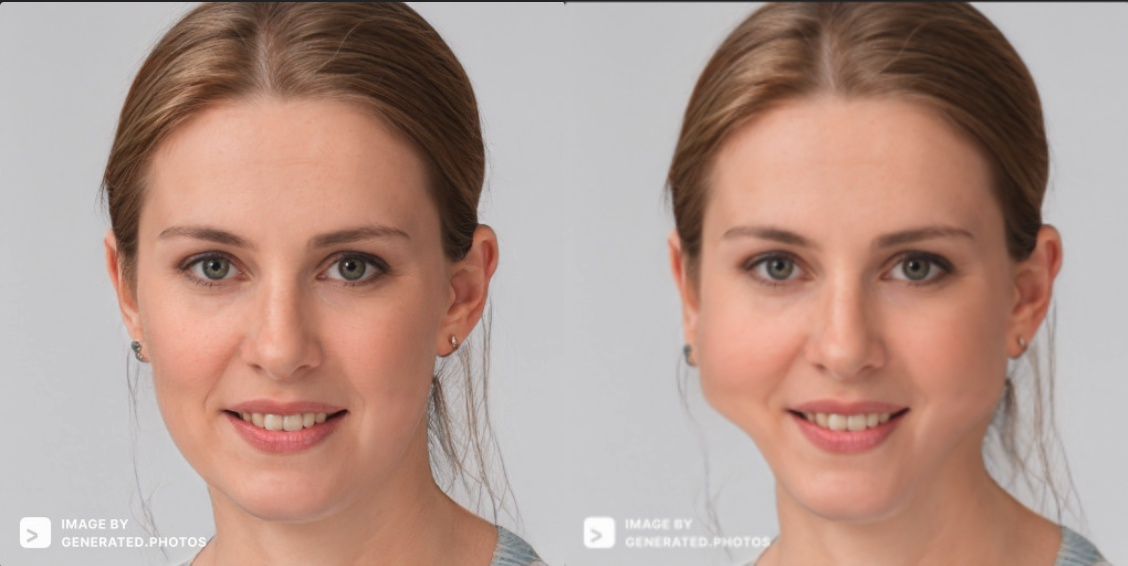
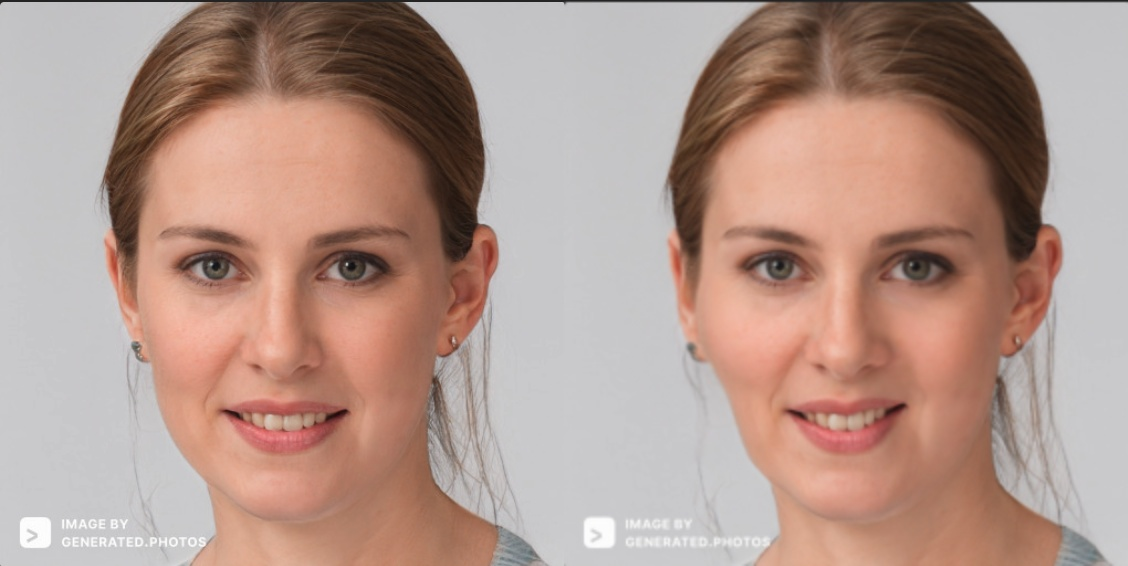
Add all

diff --git a/slim_face.py b/slim_face.py
@@ -1,3 +1,4 @@
+import sys
 import os
 import cv2
 import glob
@@ -86,7 +87,7 @@ class SlimFace(object):
 
     def generate_slim_part_params(self, lms, face_part):
         if face_part == "cheek":
-            landmark_coordinate = self.generate_landmark_coordinate(lms, 3, 5, 13, 11, 29) # Original key Point: 3, 5, 13, 15, 30
+            landmark_coordinate = self.generate_landmark_coordinate(lms, 3, 5, 13, 11, 33) # Original key Point: 3, 5, 13, 15, 30
         elif face_part == "humerus":
             landmark_coordinate = self.generate_landmark_coordinate(lms, 1, 17, 15, 26, 27)
         elif face_part == "chin":
@@ -132,23 +133,20 @@ class SlimFace(object):
             update_status = (
                 False if ux + uy < face_proportion or math.sqrt(ux * ux + uy * uy) < face_proportion else True)
             # update_status = (False if ux + uy < 30 else True)
-            print("update_status")
+            # print("update_status")
             return update_status
 
     def get_landmark(self, im):
         self.frame += 1
         if self.frame == 1:
             rects = self.s3fd_model.extract(im)
-            print("!!!!!", len(im), im.shape, rects)
             lms = self.landmark_model.extract(im, rects[:1])
-            print(lms)
             c_lms = lms
             self.rects = rects
             self.landmarks = lms
             self.lms_update = True
 
         else:
-            print("!!!!")
             rects = self.s3fd_model.extract(im)
             update_status = self.compare_rects_change(rects)
             if not update_status:
@@ -156,12 +154,13 @@ class SlimFace(object):
                 lms = self.landmarks
                 self.lms_update = False
             else:
-                print("get new lanmark")
                 lms = self.landmark_model.extract(im, rects[:1])
                 c_lms = lms
                 self.rects = rects
                 self.landmarks = lms
                 self.lms_update = True
+
+        print("landmark", lms)
 
         return rects, c_lms, lms, self.lms_update
 
@@ -188,7 +187,11 @@ class SlimFace(object):
             ratio = (dradius - distance) / (dradius - distance + ddmc)
             ratio = s * ratio * ratio
             UX, UY = i - ratio * (endX - landmark_x), j - ratio * (endY - landmark_y)
-            copy_im[j, i] = self.BilinearInsert(im, UX, UY)
+
+            if j <= 255 and i <=  255:
+                copy_im[j, i] = self.BilinearInsert(im, UX, UY)
+            else:
+                print(f"Ignore wrong coordinate: [{j} , {i}]")
         return copy_im
 
     def localTranslationWarp(self, im, slim_part):
@@ -234,12 +237,11 @@ class SlimFace(object):
                 if cp - self.cp > 0.3:
                     cp = self.cp + 0.3
             self.cp = cp
-            print("left >>>", cp)
+            # print("left >>>", cp)
             if compare_face > 0:
                 current_power = self.slim_strength_copy['cheek'][0] + cp
                 self.slim_strength['cheek'][0] = current_power
             elif compare_face < 0:
-                print("wtf")
                 current_power = self.slim_strength_copy['cheek'][1]
                 self.slim_strength['cheek'][1] = current_power + cp
 
@@ -256,7 +258,6 @@ class SlimFace(object):
         humerus_im = self.localTranslationWarp(cheek_im, 'humerus')
         chin_im = self.localTranslationWarp(humerus_im, 'chin')
         im = cv2.resize(chin_im, (w, h))
-        cv2.imwrite("A.jpg", im)
         return im
 
 
@@ -279,30 +280,31 @@ def put_frame():
         # out.write(res)
 
 
-def put_img():
-    idx  = 0
-    for i in range(5):
+def put_img(cheek_strength, humerus_strength, chin_strength):
+    for i in range(12):
         im = cv2.imread("data_input/test_face{}.png".format(i+1))
-        slim.set_slim_strength(
-            cheek_strength=1.6,
-            humerus_strength=0.2,
-            chin_strength=2.2)
+        slim.set_slim_strength(cheek_strength, humerus_strength, chin_strength)
         res_im = slim.slim_handler(im)
         image = np.concatenate((im, res_im), axis=1)
-        cv2.imwrite("./data_output/slim_face{}.jpg".format(i), image)
-
-        cv2.imshow("slim face", image)
-        sleep(1)
+        cv2.imwrite("./data_output/deformation_face{}.jpg".format(i), image)
+        cv2.imshow("face", image)
         cv2.waitKey(1)
-
-        idx += 1
-
 
 
 if __name__ == "__main__":
     # file_list = os.listdir('.')
     # fourcc = cv2.VideoWriter_fourcc(*'XVID')
     # out = cv2.VideoWriter("ssslim.avi", fourcc, 24.0, (1920, 1080))
-    slim = SlimFace()
     # put_frame()
-    put_img()
+
+    slim = SlimFace()
+    if len(sys.argv) == 1:
+        cheek_strength = 1.2
+        humerus_strength = 0.1
+        chin_strength = 1.6
+    else:
+        _, cheek_strength, humerus_strength, chin_strength  = sys.argv
+
+    print("Deformation strength: ", cheek_strength, humerus_strength, chin_strength)
+
+    put_img(cheek_strength, humerus_strength, chin_strength)

diff --git a/README.md b/README.md
@@ -54,13 +54,22 @@ Get the key points of the face (face deformation is based on the key points)
 <img src='images/face.gif'  width='800' title='MeowShop, online shopping site'>
 
 ## 【Result1】
+
+
 <img src='static/images/store222.gif'  width='800' title='MeowShop, online shopping site'>
 
 ## 【Result2】
-<img src='static/images/store22.gif'  width='800' title='MeowShop, online shopping site'>
+
+Pull all parts of the face outward
+
+<img src='static/images/slim_face3.gif'  width='800' title='MeowShop, online shopping site'>
+
 
 ## 【Result3】
-<img src='static/images/pay.gif'  width='800' title='MeowShop, online shopping site'>
+
+Cheeks become larger and the chin becomes smaller
+
+<img src='static/images/smile.gif'  width='800' title='MeowShop, online shopping site'>
 
 
 
